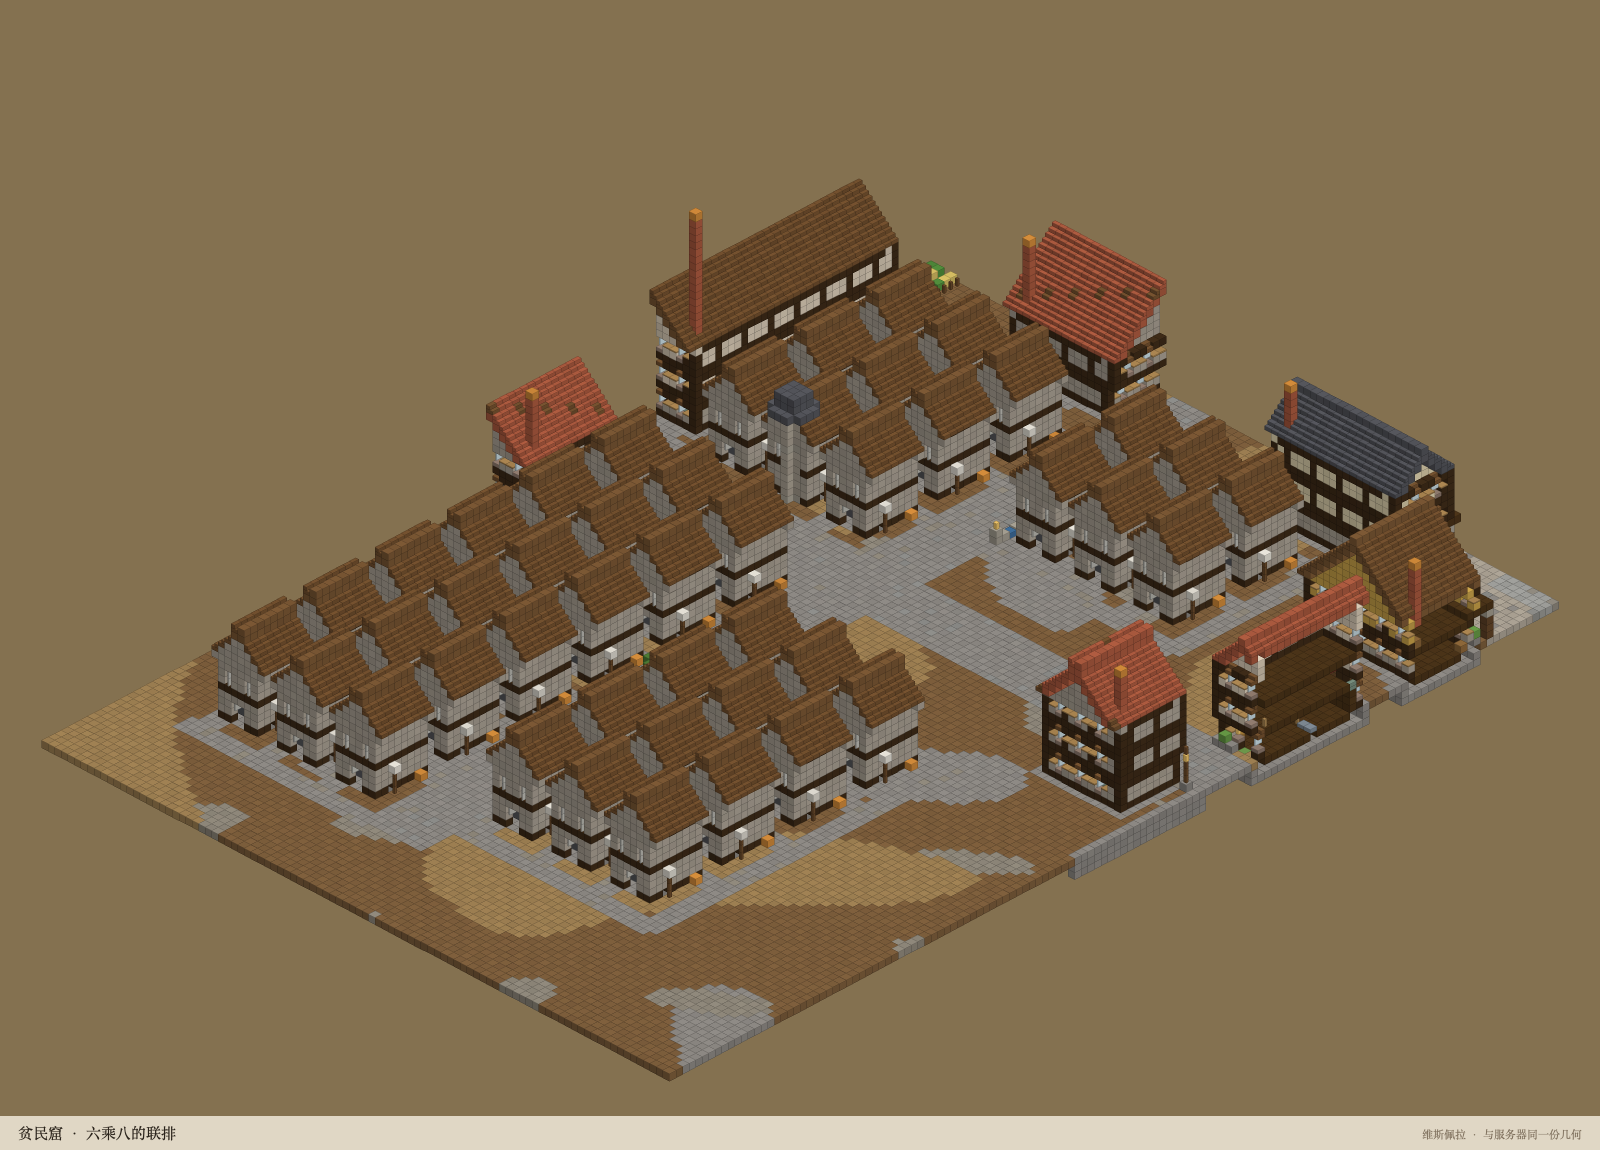
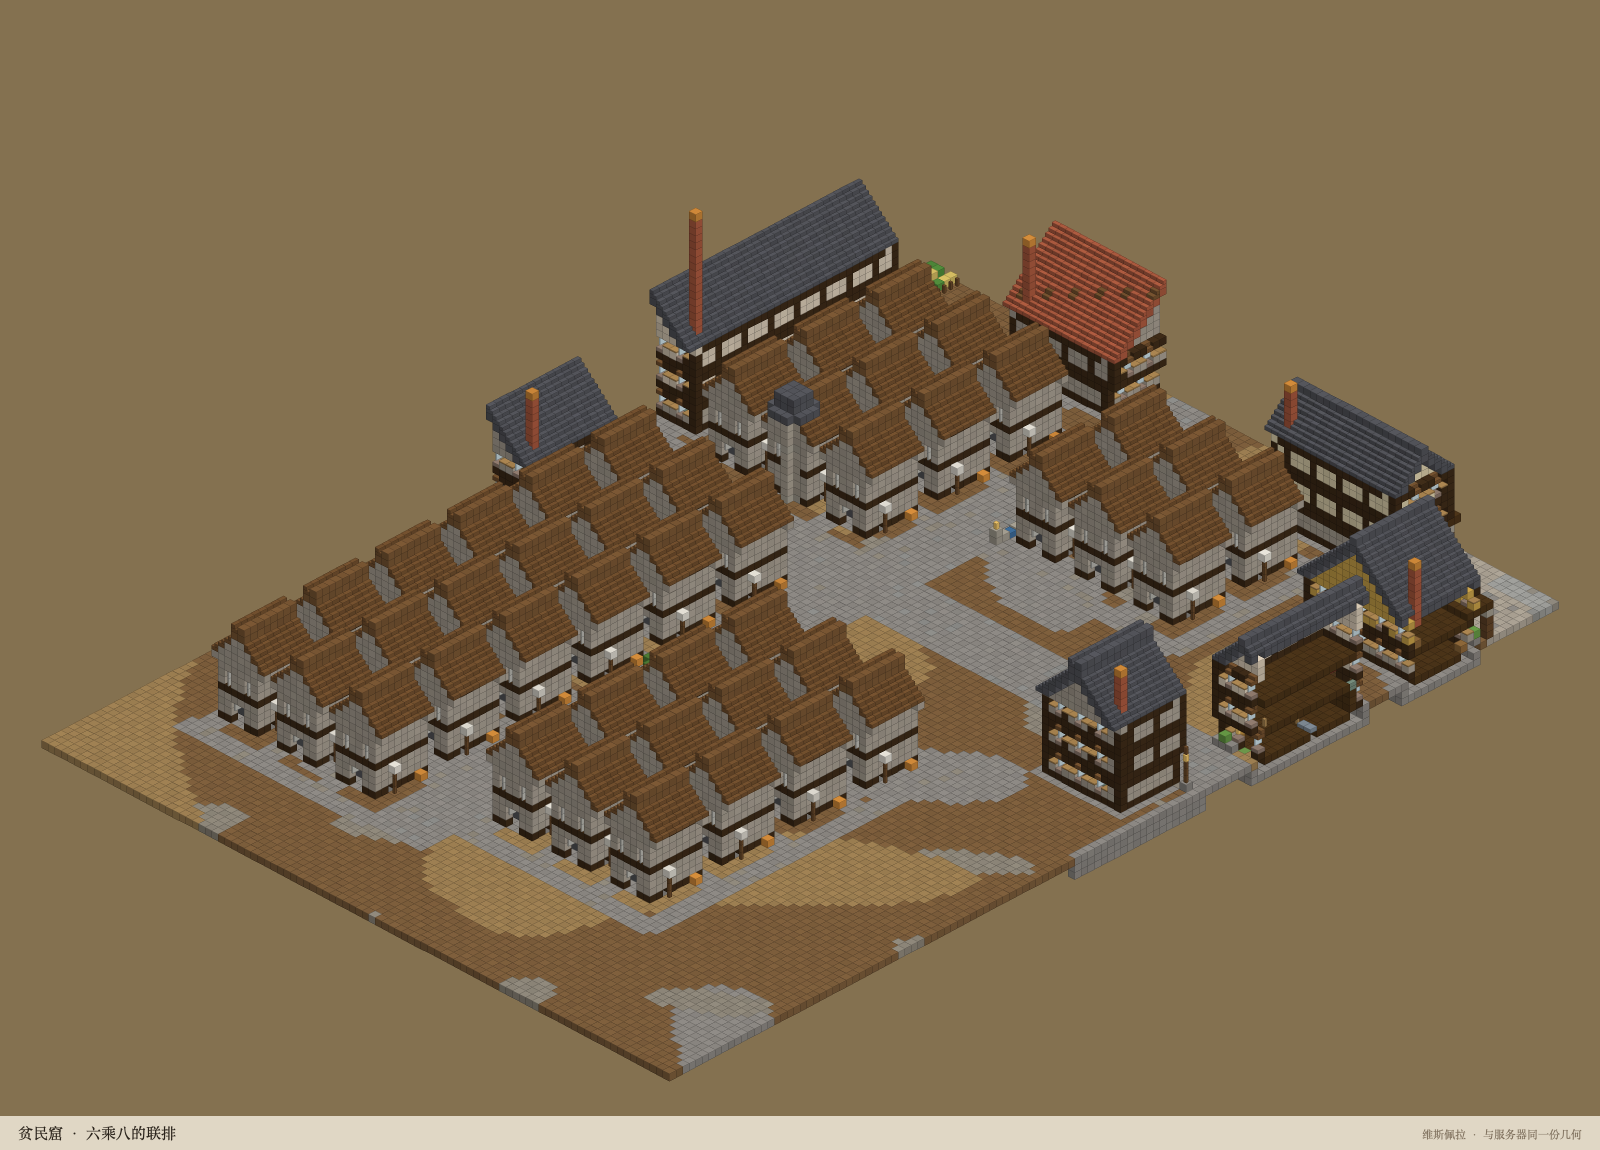
圣座加了顶冠：圆亭金穹顶、基座盲拱、副塔；民居瓦色转冷
照第二张参考图（黄昏、大道直通山上白金宫殿）改的。它教的是一条：顶点必须只有一个，
而且是"曲"的。

- 顶冠：方亭+铜锥换成十二柱圆亭+十一层金穹顶+金针（y+28），台角加一座鼓形副塔。
  方的东西在轮廓上立不住，曲面才是"顶"。
- 基座：最下两层台身的壁柱改成盲拱龛（三格宽四格高凿进一格，拱腹压楼梯），
  正中间让开十格给大台阶。白墙被分成几百个小格子，远看是明暗相间的带子。
- 瓦色：民居七成改板岩（青灰），只留两成红瓦一成木瓦。原来整城偏暖，圣座不突出。
- 水池挪到柱廊外（原来十二根柱子泡在水里）。
- 新图 17-轴线：南门→街道→大台阶→七层台地→金顶，五段一帧。

47 项测试全绿。等轴渲染器仍是 45° 俯角；低机位透视要另写投影+深度缓冲，不在本轮。

Changed region(s): [[0.6562, 0.4261, 0.9375, 0.6391], [0.4062, 0.1522, 0.5625, 0.3043], [0.2812, 0.3043, 0.4062, 0.4261]]

diff --git a/docs/设计图/流明陨城-规划图.html b/docs/设计图/流明陨城-规划图.html
@@ -158,7 +158,7 @@
 <h2>规模</h2>
 <table>
 <tr><td>城墙</td><td>600 × 600，四门、十二座墙塔</td></tr>
-<tr><td>方块</td><td>2,034,077（含墙外）</td></tr>
+<tr><td>方块</td><td>2,037,778（含墙外）</td></tr>
 <tr><td>最高点</td><td>圣座顶坛 78 格 / 王座塔 72 格</td></tr>
 <tr><td>街区</td><td>8 × 8 网格，含 6 处小广场</td></tr>
 </table>

diff --git a/vespera-core/src/main/java/io/github/vampireachao/vespera/core/world/Sacred.java b/vespera-core/src/main/java/io/github/vampireachao/vespera/core/world/Sacred.java
@@ -88,13 +88,20 @@ final class Sacred {
             }
         }
 
-        // 2) 壁柱：每四格一根，柱头换凿制石。节奏比花纹更能让人读出"这是一栋建筑"
-        for (int side = 0; side < 4; side++) {
-            for (int along = -(r - 2); along <= r - 2; along += 4) {
-                int px = side < 2 ? along : (side == 2 ? -r : r);
-                int pz = side < 2 ? (side == 0 ? -r : r) : along;
-                for (int y = y0 + 1; y < y0 + TIER_H; y++) {
-                    k.set(px, y, pz, y == y0 + TIER_H - 1 ? Palette.STONE_CHISELED : Palette.STONE_BRICK);
+        // 2) 外皮：最下两层做盲拱，上面做壁柱。
+        // 一座宫殿的基座之所以像"城"，是因为挡土墙上有一整圈拱龛——远看是明暗相间的
+        // 带子，把一面大白墙分成几百个小格子。三格宽的壁柱只是竖线，拱龛才有"洞"。
+        if (index <= 1) {
+            blindArcade(k, r, y0);
+        } else {
+            for (int side = 0; side < 4; side++) {
+                for (int along = -(r - 2); along <= r - 2; along += 4) {
+                    int px = side < 2 ? along : (side == 2 ? -r : r);
+                    int pz = side < 2 ? (side == 0 ? -r : r) : along;
+                    for (int y = y0 + 1; y < y0 + TIER_H; y++) {
+                        k.set(px, y, pz,
+                                y == y0 + TIER_H - 1 ? Palette.STONE_CHISELED : Palette.STONE_BRICK);
+                    }
                 }
             }
         }
@@ -233,12 +240,100 @@ final class Sacred {
 
     /** 塔顶祭坛：四面火盆，中间金座，顶上开天窗。 */
     /**
-     * 塔顶祭坛：一座四面敞开的亭子，四角墩柱、过梁、铜顶、金顶针。
+     * 台身外皮的盲拱：三格宽、四格高、凿进一格，顶上压一块楼梯当拱腹。
      *
-     * <p>原来是四根独柱撑一块整板再加一摞金块——从远处看就是"一个盒子戴了顶帽子"。
-     * 现在改成"墙变成柱、屋顶收成锥"：人站在亭子里能看见四面天，铜顶在一片砂岩色里
-     * 是唯一一处冷色，正好把轮廓收住。
+     * <p>只在最下两层做。越往上拱越小越少，是真实的做法——为了省钱，
+     * 也因为远看时上面本来就看不见几个洞。
      */
+    private static void blindArcade(BuildKit k, int r, int y0) {
+        String[] face = {"south", "north", "east", "west"};
+        for (int side = 0; side < 4; side++) {
+            for (int along = -(r - 4); along <= r - 4; along += 6) {
+                // 正中间让开：那里是大台阶与壁柱
+                if (Math.abs(along) < 10) {
+                    continue;
+                }
+                for (int w = -1; w <= 1; w++) {
+                    int px = side < 2 ? along + w : (side == 2 ? -r : r);
+                    int pz = side < 2 ? (side == 0 ? -r : r) : along + w;
+                    for (int h = 1; h <= 4; h++) {
+                        k.set(px, y0 + h, pz, null);
+                    }
+                    k.set(px, y0 + 5, pz,
+                            Block.stairs("minecraft:stone_brick_stairs", face[side]));
+                }
+            }
+        }
+    }
+
+    /**
+     * 塔顶祭坛：一座四面敞开的圆亭，十二根柱子，一顶金穹隆。
+     *
+     * <p>原来是"四根方柱 + 五层收分的方锥铜顶"。方的东西在轮廓上立不住——从远处看，
+     * 一座城的顶点必须是一个<b>曲面</b>，眼睛才认得出"这是顶"。所以换成圆亭加真穹隆，
+     * 顶上再插一根金针：全城唯一的暖金就在这儿，和下面七层砂岩台地拉开。
+     */
+    /**
+     * 顶冠：圆亭 + 金穹顶 + 金针，外加台角一座鼓形副塔。
+     *
+     * <p>这三件是照着"一个宽台基、中段碎、顶上一点金"那个轮廓配的：
+     * 圆亭给曲面，穹顶给高光，金针把视线往上带，副塔让顶点旁边还有一个次高，
+     * 不至于孤零零一根。少了副塔，顶上那点金会被七层台地的宽度压住。
+     */
+    private static void crown(BuildKit k, int y) {
+        int ring = 12;
+        // 台座：两级圆阶，把亭子垫起来
+        k.disc(0, 0, ring + 2, y + 1, Palette.STONE_CHISELED);
+        k.disc(0, 0, ring + 1, y + 2, Palette.SANDSTONE);
+        // 十二根柱子，柱头贴金
+        for (int i = 0; i < 12; i++) {
+            double a = i / 12.0 * Math.PI * 2;
+            int px = (int) Math.round(Math.cos(a) * ring);
+            int pz = (int) Math.round(Math.sin(a) * ring);
+            k.fill(px, y + 3, pz, px, y + 10, pz, Palette.STONE_CHISELED);
+            k.set(px, y + 11, pz, Palette.GOLD);
+        }
+        // 环梁：柱头之上一圈砂岩，亭子才有"檐"
+        for (int i = 0; i < 96; i++) {
+            double a = i / 96.0 * Math.PI * 2;
+            int px = (int) Math.round(Math.cos(a) * ring);
+            int pz = (int) Math.round(Math.sin(a) * ring);
+            k.set(px, y + 11, pz, Palette.SANDSTONE);
+            k.set(px, y + 12, pz, Palette.SANDSTONE);
+        }
+        // 穹顶：十一层半球，整体贴金，只有最下两圈是铜绿——
+        // 雨水从顶上流下来，先锈的是檐口那一圈，不是顶心。而且从空中看，
+        // 看见的是顶心：顶心要是绿的，这顶冠就白做了
+        for (int i = 0; i <= 10; i++) {
+            double t = i / 10.0;
+            int rr = (int) Math.round((ring + 2) * Math.sqrt(Math.max(0, 1 - t * t)));
+            k.disc(0, 0, rr, y + 13 + i, i <= 1 ? Palette.COPPER_OXIDIZED : Palette.GOLD);
+        }
+        // 金针
+        k.fill(0, y + 25, 0, 0, y + 27, 0, Palette.GOLD);
+        k.set(0, y + 28, 0, Palette.GOLD);
+
+        // 副塔：台角一座鼓形塔，铜绿小穹顶
+        int tx = 15;
+        int tz = 15;
+        for (int yy = y + 1; yy <= y + 14; yy++) {
+            for (int dx = -3; dx <= 3; dx++) {
+                for (int dz = -3; dz <= 3; dz++) {
+                    double d = Math.sqrt(dx * dx + dz * dz);
+                    if (d <= 3.4 && d > 2.2) {
+                        k.set(tx + dx, yy, tz + dz,
+                                yy % 6 == 0 ? Palette.STONE_CHISELED : Palette.STONE_BRICK);
+                    }
+                }
+            }
+        }
+        k.disc(tx, tz, 3, y + 15, Palette.SANDSTONE);
+        for (int i = 0; i <= 4; i++) {
+            k.disc(tx, tz, Math.max(0, 4 - i), y + 16 + i, Palette.COPPER_OXIDIZED);
+        }
+        k.set(tx, y + 21, tz, Palette.GOLD);
+    }
+
     private static void altar(BuildKit k) {
         int y = TIERS * TIER_H;
         int r = 18;
@@ -265,29 +360,8 @@ final class Sacred {
         k.fill(-2, y + 3, -2, 2, y + 3, 2, Palette.GOLD);
         k.set(0, y + 4, 0, Palette.GOLD);
 
-        // 亭子：四角三乘三的墩柱，柱头贴金；四面过梁
-        int pr = 7;
-        for (int[] c : new int[][] {{-pr, -pr}, {pr, -pr}, {-pr, pr}, {pr, pr}}) {
-            k.fill(c[0] - 1, y + 1, c[1] - 1, c[0] + 1, y + 8, c[1] + 1, Palette.STONE_CHISELED);
-            k.set(c[0], y + 9, c[1], Palette.GOLD);
-        }
-        for (int i = -pr - 1; i <= pr + 1; i++) {
-            for (int j : new int[] {-pr - 1, pr + 1}) {
-                k.set(i, y + 9, j, Palette.STONE_CHISELED);
-                k.set(j, y + 9, i, Palette.STONE_CHISELED);
-                k.set(i, y + 10, j, Palette.SANDSTONE);
-                k.set(j, y + 10, i, Palette.SANDSTONE);
-            }
-        }
-
-        // 铜顶：五层收分的方锥，顶上金针。这是全城唯一一处冷色
-        for (int layer = 0; layer < 5; layer++) {
-            int rr = 9 - layer * 2;
-            // 最下一圈还是新铜，往上已经生锈：真实铜顶从来不是一次变绿的
-            Block copper = layer == 0 ? Palette.COPPER : Palette.COPPER_OXIDIZED;
-            k.fill(-rr, y + 11 + layer, -rr, rr, y + 11 + layer, rr, copper);
-        }
-        k.fill(0, y + 16, 0, 0, y + 17, 0, Palette.GOLD);
+        // 顶冠：圆亭 + 金穹顶 + 金针
+        crown(k, y);
 
         // 四角火盆
         for (int[] c : new int[][] {{-14, -14}, {14, -14}, {-14, 14}, {14, 14}}) {
@@ -295,14 +369,15 @@ final class Sacred {
             k.set(c[0], y + 3, c[1], Palette.CAMPFIRE);
         }
 
-        // 两侧的水池：水到了顶上，总得有个地方落
+        // 两侧的水池：挪到柱廊外面，不然十二根柱子会泡在水里
         for (int side = -1; side <= 1; side += 2) {
-            for (int x = -12; x <= -8; x++) {
+            for (int x = 13; x <= 16; x++) {
                 for (int z = -2; z <= 2; z++) {
                     k.set(x * side, y, z, Palette.WATER);
                 }
             }
             k.set(side * 12, y + 1, 0, Palette.STONE_CHISELED);
+            k.set(side * 17, y, 0, Palette.STONE_CHISELED);
         }
 
         // 钟：挂在北侧

diff --git a/vespera-core/src/main/java/io/github/vampireachao/vespera/core/world/CityExport.java b/vespera-core/src/main/java/io/github/vampireachao/vespera/core/world/CityExport.java
@@ -38,7 +38,8 @@ public final class CityExport {
             new Shot("11-贵族府邸", "贵族府邸 · 六座院子", 90, -300, 215, -130, 1700, 1250, 8.0),
             new Shot("12-贫民窟", "贫民窟 · 六乘八的联排", -200, 110, -105, 245, 1600, 1150, 9.0),
             new Shot("15-角斗场东门", "角斗场 · 东门与门顶的贵宾席", 230, 150, 300, 240, 1500, 1100, 12.0),
-            new Shot("16-民居街", "民居 · 进深、层数与院墙都不一样", -240, 60, -150, 150, 1600, 1150, 9.0));
+            new Shot("16-民居街", "民居 · 进深、层数与院墙都不一样", -240, 60, -150, 150, 1600, 1150, 9.0),
+            new Shot("17-轴线", "从南门到圣座 · 一条路把人送上台地", -80, -85, 80, 335, 1500, 1500, 5.0));
 
     public static void main(String[] args) throws Exception {
         Path out = Path.of(args.length > 0 ? args[0] : "docs/设计图");

diff --git a/vespera-core/src/main/java/io/github/vampireachao/vespera/core/world/BuildKit.java b/vespera-core/src/main/java/io/github/vampireachao/vespera/core/world/BuildKit.java
@@ -401,10 +401,12 @@ public final class BuildKit {
         String roofStair = switch (style) {
             case 1 -> Palette.SHINGLE_STAIR;
             case 3 -> Palette.SLATE_STAIR;
+            // 民居的瓦偏冷：一大片青灰压下去，圣座那点白金才浮得出来。
+            // 原来七成是红瓦，整座城偏暖，宫殿和民居混在一起，远看没有主次
             default -> switch (rnd.nextInt(10)) {
-                case 0, 1, 2 -> Palette.SLATE_STAIR;
-                case 3, 4 -> Palette.SHINGLE_STAIR;
-                default -> Palette.TILE_STAIR;
+                case 0, 1, 2, 3, 4, 5, 6 -> Palette.SLATE_STAIR;
+                case 7, 8 -> Palette.TILE_STAIR;
+                default -> Palette.SHINGLE_STAIR;
             };
         };
         // 墙面颜色：同一条街用同一种料，只有深浅的微差

diff --git a/docs/08-主城设计.md b/docs/08-主城设计.md
@@ -576,3 +576,45 @@ k.claim("摊位", x, z, x + 5, z + 3);
 | 金字塔偏胖 | 高 73、底边 133，高宽比 0.55，远看是一座台地不是一座尖。要么收底边，要么再加两层 |
 | 五个次高带 | 行会厅、图书馆、澡堂、粮仓、银行还没有塔。加到 26–34 会有"一圈次高" |
 | 城墙内侧 | 墙是能走了，墙根还是一条空地 | 
+
+## 十三、照第二张参考图改的：宽台基、顶上一冠
+
+第二张参考图（黄昏、一条大道直通山上的白金宫殿）和第一张（环形城市）不是一回事。
+它教的只有一句：**一座城的顶点必须只有一个，而且必须是"曲"的。**
+
+拆开看它的轮廓，从下往上是四层：
+
+| 层 | 它怎么做的 | 为什么成立 |
+|---|---|---|
+| 台基 | 一圈两层的挡土墙，墙上密排盲拱 | 白色大墙被分成几百个小格子，远看是明暗相间的带子，不空 |
+| 中段 | 一堆小塔、小屋顶、扶壁挤在一起 | 轮廓"碎"，碎才显得大；平直的一段反而显小 |
+| 顶冠 | 圆亭 + 金穹顶 + 金针 | 全画面唯一的曲面、唯一的金 → 眼睛一定落在那里 |
+| 副高 | 旁边一座鼓形圆塔 | 主峰旁边要有次高，否则顶点孤零零 |
+
+我们的金字塔只有"台基"，中段是光面，顶上是个方亭配铜锥——方的在轮廓上立不住。
+
+### 13.1 改了三处
+
+| 改动 | 做法 |
+|---|---|
+| 基座盲拱 | 最下两层台身，壁柱改成"三格宽、四格高、凿进一格"的拱龛，顶上压一块楼梯当拱腹。正中间让开十格（那里是大台阶） |
+| 顶冠 | 方亭换圆亭：十二根柱子、柱头贴金、一圈环梁；上面十一层半球穹顶（整体贴金，只有最下两圈铜绿）；顶上金针到 y+28 |
+| 副塔 | 台角 (15,15) 一座鼓形塔，铜绿小穹顶，比主顶低九格 |
+
+顺手把两处水池挪到柱廊外面——十二根柱子原来会泡在水里。
+
+### 13.2 瓦色偏冷
+
+参考图的城是"一大片青灰 + 一点白金"。我们原来七成红瓦，整座城偏暖，宫殿和民居
+混在一起，远看没有主次。现在民居的屋顶七成换板岩（青灰），只留两成红瓦、一成木瓦。
+
+### 13.3 新的一张图：17-轴线
+
+从南门到圣座，一整条路把视线送上台地。这张图是照参考图的构图配的：**门外 → 街道 →
+大台阶 → 七层台地 → 金顶**，五段都在一帧里。
+
+### 13.4 一个做不到的事
+
+参考图是低机位透视。我们的等轴渲染器是固定的 45° 俯角，改常数试过：画家算法的排序
+会崩（金字塔会看起来像滑梯）。要出那种"站在街口抬头看宫殿"的图，得写一个真的透视
+投影 + 深度缓冲，这是一件独立的工作，不在这轮里。
